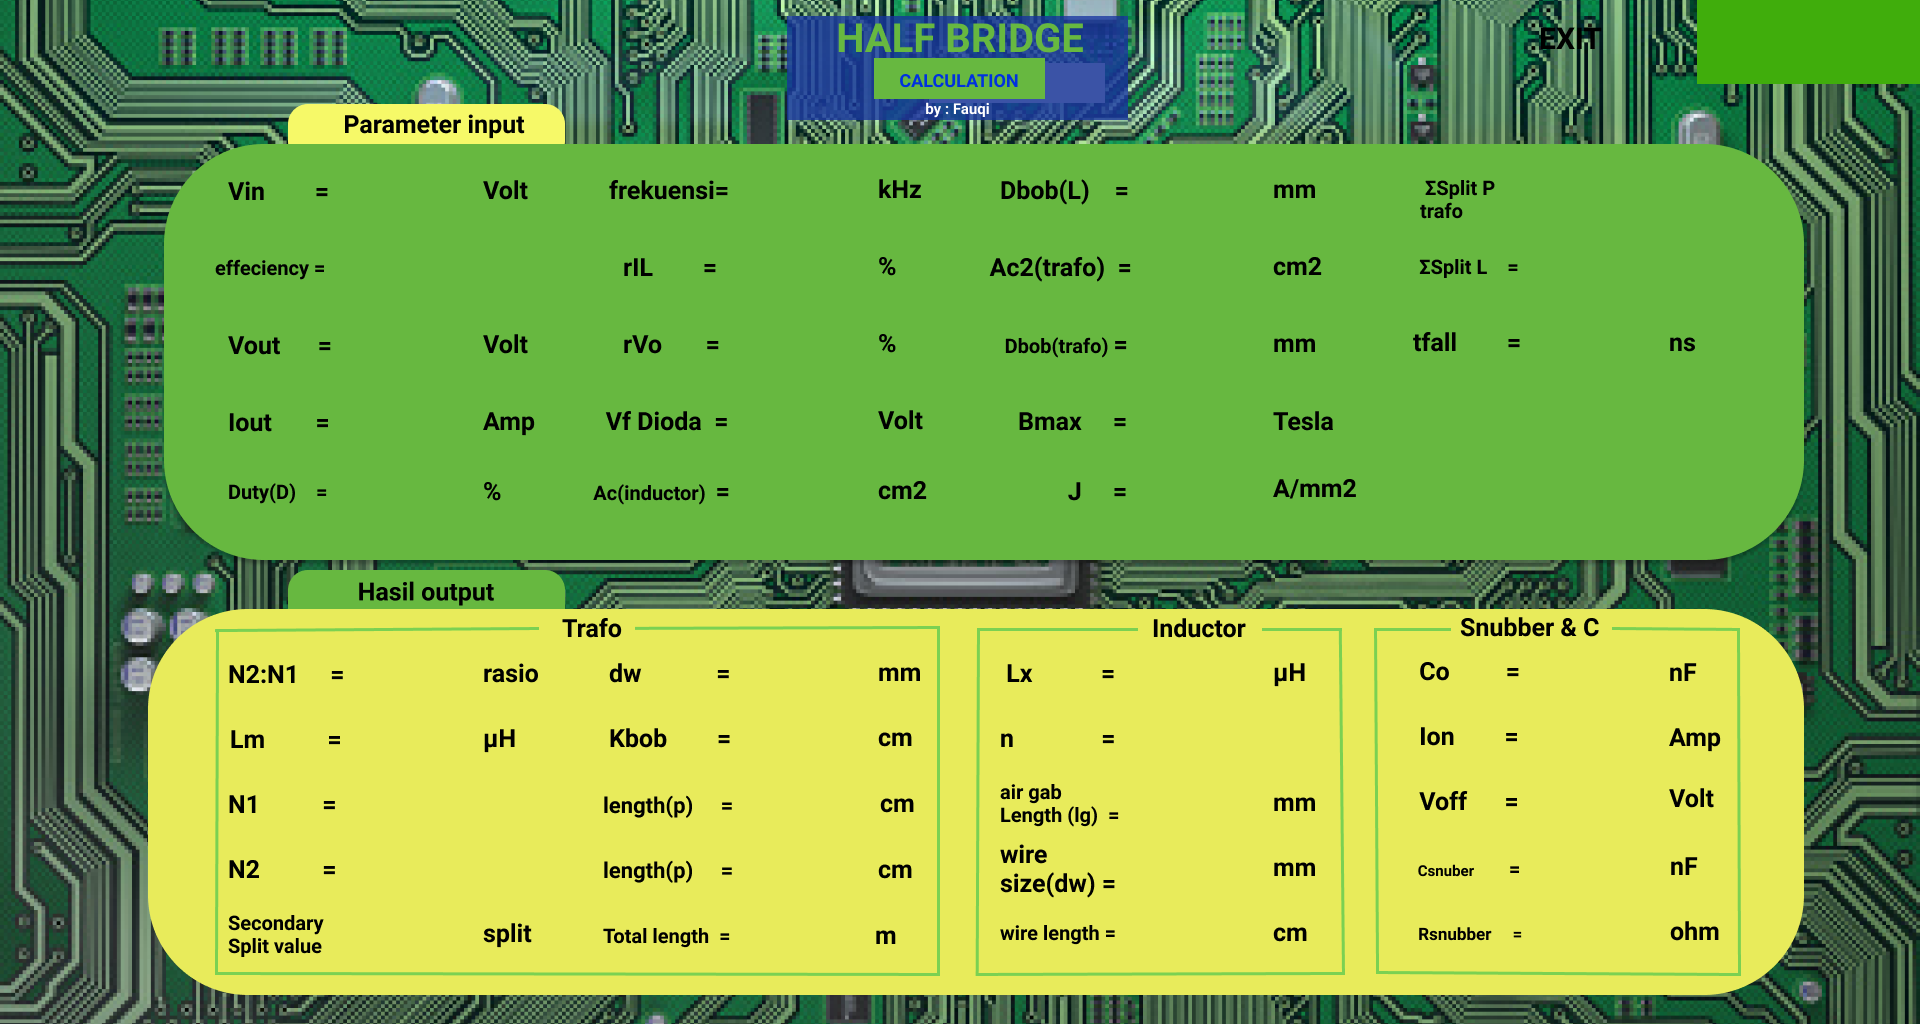
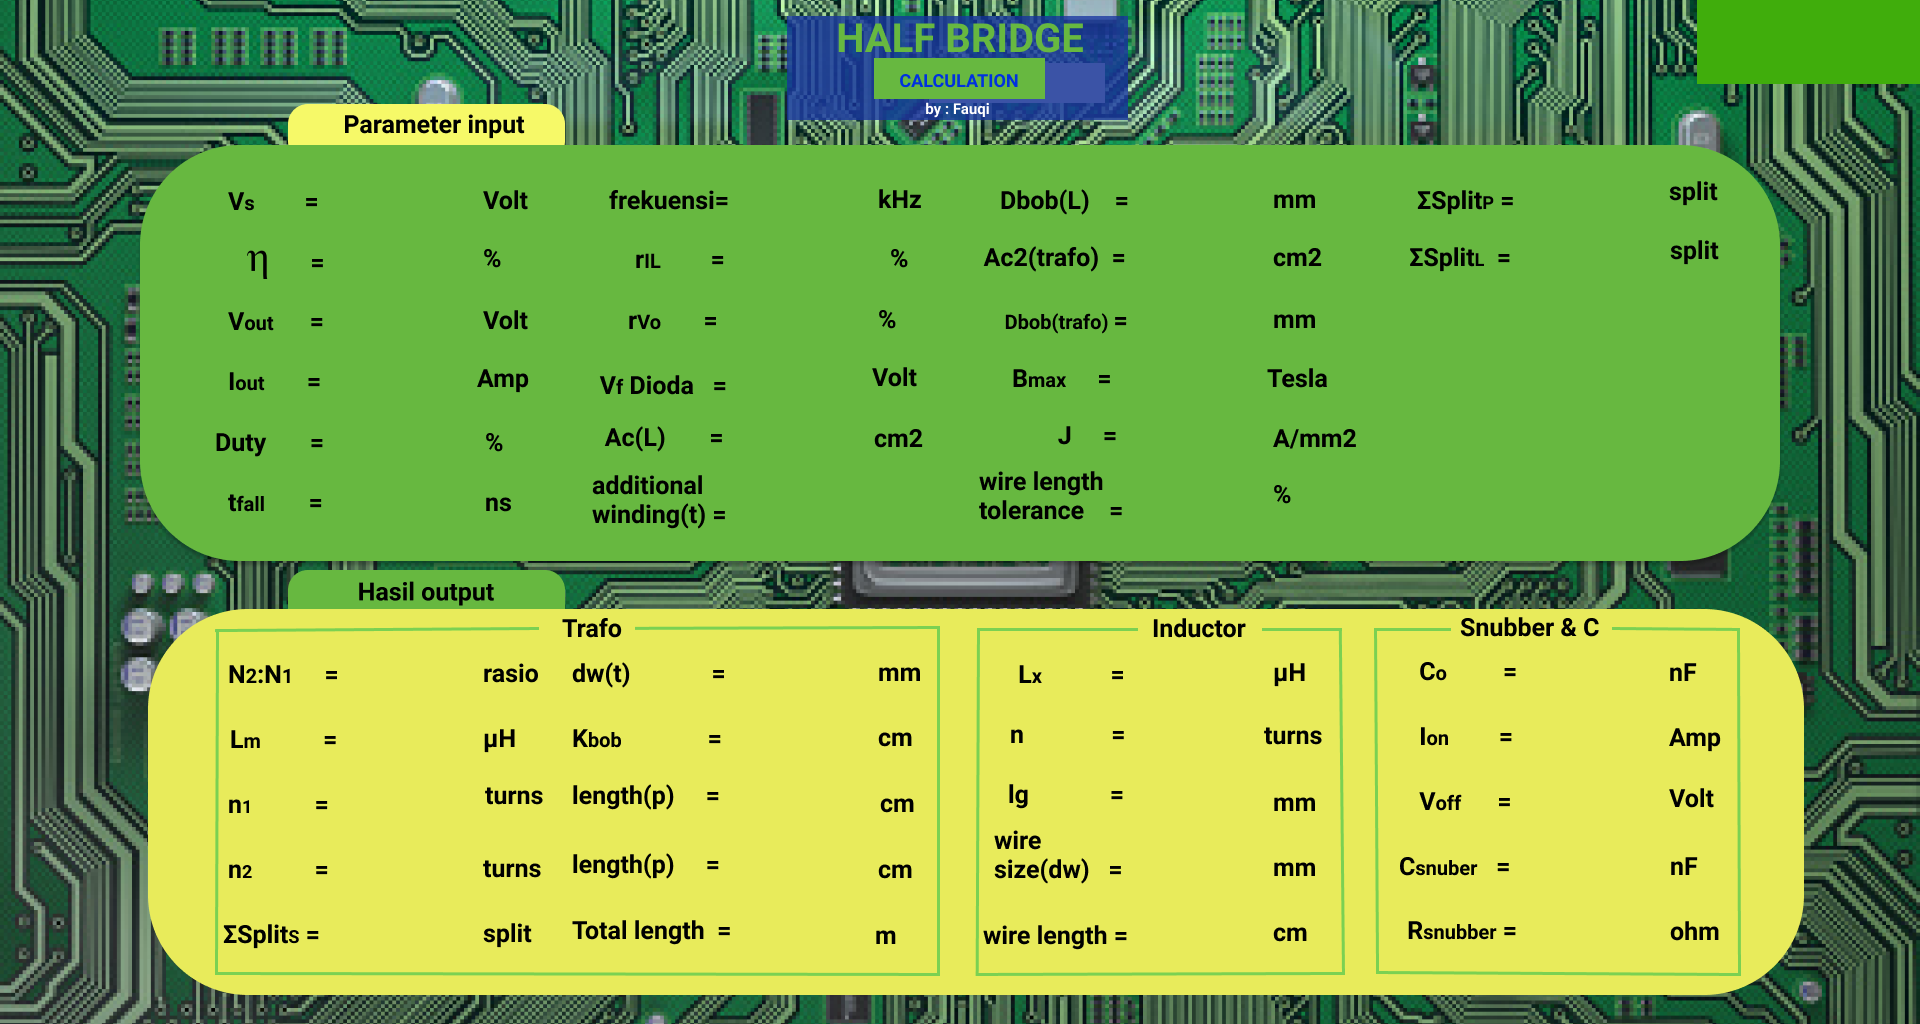
wkwk

diff --git a/page.py b/page.py
@@ -107,7 +107,7 @@ class Page:
         self.frame=Frame(self.master,bg="RED")
         self.frame2=Frame(self.master,bg="RED")
         self.frame3=Frame(self.master,bg="#D7D3D3")
-        self.entry =[[0 for x in range(5)]  for x in range(5)]
+        self.entry =[[0 for x in range(6)]  for x in range(6)]
         self.outLabel =[[0 for x in range(5)]  for x in range(5)]
         self.btnHistory=[0 for x in range(88)]
         self.labelHistory=[0 for x in range(88)]   
@@ -176,7 +176,7 @@ class Page:
         self.historyBtn=Button(self.frame2,command=self.history,image=self.historyImage,activebackground="#40AD0C",bg="#40AD0C",borderwidth=0)
         self.closeBtn=Button(self.frame3,command=self.close,image=self.closeImage,activebackground="#687BDC",bg="#687BDC",borderwidth=0)
         #self.entry[0][0]=Entry(self.frame2,font=20)
-        for x in range(5):
+        for x in range(6):
             for y in range(5):    
                 self.entry[x][y] = Entry(self.frame2,font=20)
         for j in range(5):
@@ -257,14 +257,14 @@ class Page:
         k=0
         x=0
         y=0
-        offsetH=self.sH*0.165
+        offsetH=self.sH*0.173
         offsetW=self.sW*0.181
         jarakW=self.sW*0.141
-        jarakH=self.sH*0.0292
+        jarakH=self.sH*0.0146
         entryWidth=self.sW*0.065
         entryHeight=self.sH*0.044
         
-        for j in range(5):
+        for j in range(6):
             for k in range(5):    
                 self.entry[j][k].place(x=offsetW+((k*(entryWidth+jarakW))),y=offsetH+((j*(entryHeight+jarakH))),width=entryWidth,height=entryHeight)
         
@@ -282,6 +282,7 @@ class Page:
         #self.entry[2][3].place_forget()
         self.entry[3][3].place_forget()
         self.entry[4][3].place_forget()
+        self.entry[5][3].place_forget()
 
         # self.outLabel[4][1].place_forget()
         # self.outLabel[3][3].place_forget()
